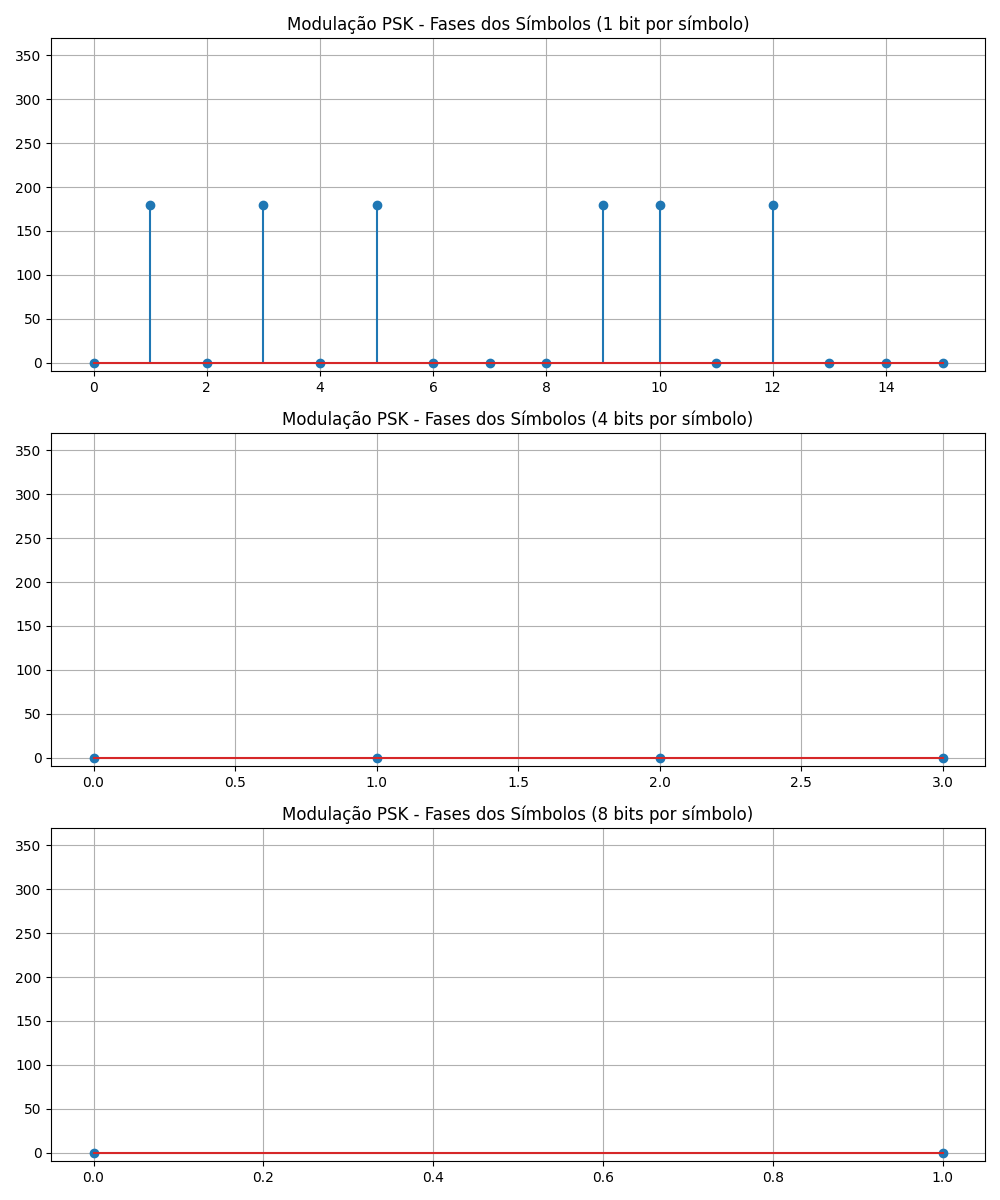
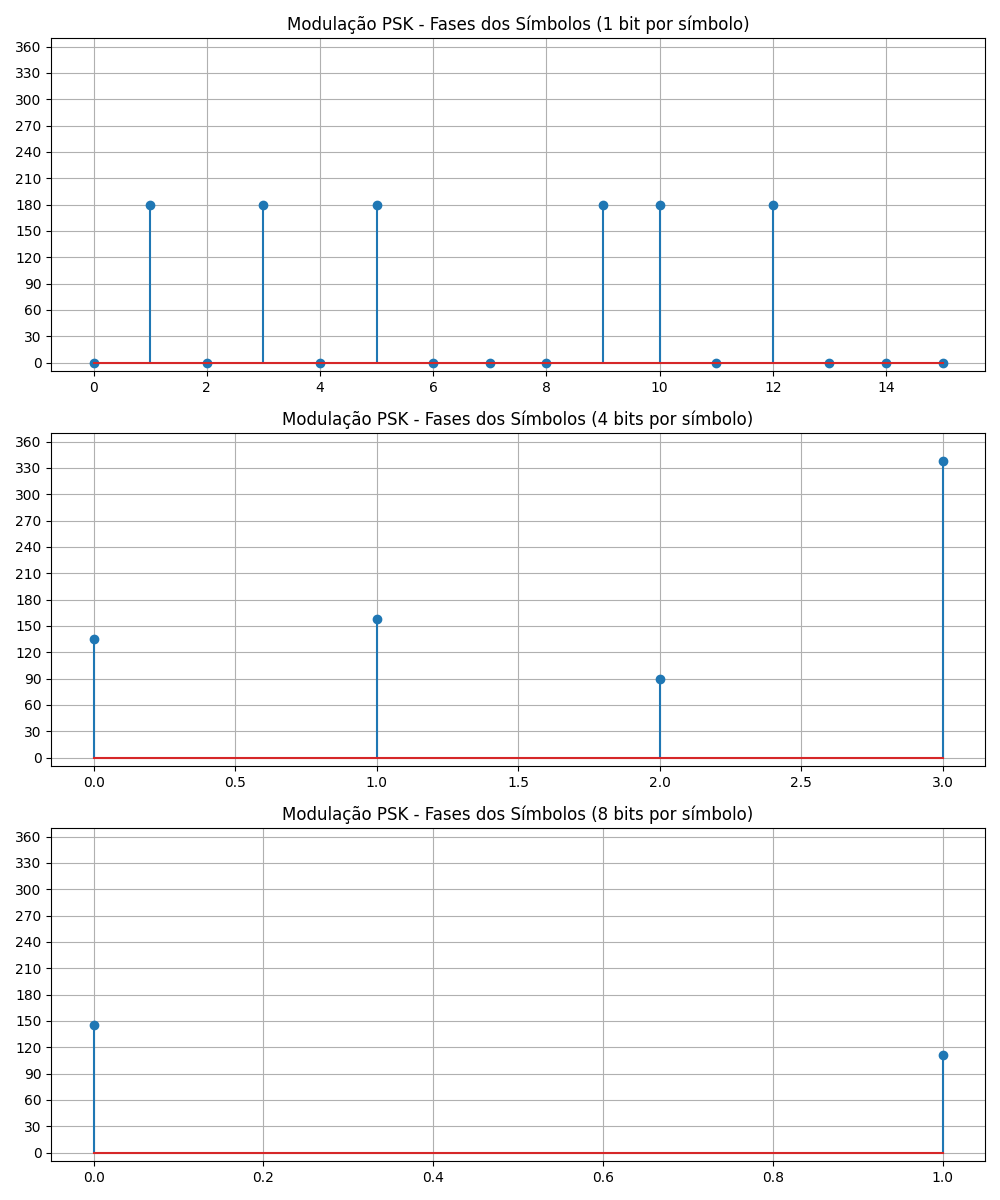
(camada física): 16 qam

diff --git a/camadas/tests/modulacoes_test.py b/camadas/tests/modulacoes_test.py
@@ -112,17 +112,16 @@ class TestModulacoes(unittest.TestCase):
 
     def test_psk_gerar_parametros(self):
         sinal = Sinal(bits_por_simbolo=1)
-        decimal_mensagem_1bit = sinal.binario_para_decimal(
-            np.array([0, 1, 0, 1, 0, 1, 0, 0, 0, 1, 1, 0, 1, 0, 0, 0])
-        )
+        mensagem_1bit = np.array([0, 1, 0, 1, 0, 1, 0, 0, 0, 1, 1, 0, 1, 0, 0, 0])
+        decimal_mensagem_1bit = sinal.binario_para_decimal(mensagem_1bit)
         sinal.bits_por_simbolo = 4
-        decimal_mensagem_4bits = sinal.binario_para_decimal(
-            np.array([[0, 1, 0, 1], [0, 1, 0, 0], [0, 1, 1, 0], [1, 0, 0, 0]])
+        mensagem_4bits = np.array(
+            [[0, 1, 0, 1], [0, 1, 0, 0], [0, 1, 1, 0], [1, 0, 0, 0]]
         )
+        decimal_mensagem_4bits = sinal.binario_para_decimal(mensagem_4bits)
         sinal.bits_por_simbolo = 8
-        decimal_mensagem_8bits = sinal.binario_para_decimal(
-            np.array([[0, 1, 0, 1, 0, 1, 0, 0], [0, 1, 1, 0, 1, 0, 0, 0]])
-        )
+        mensagem_8bits = np.array([[0, 1, 0, 1, 0, 1, 0, 0], [0, 1, 1, 0, 1, 0, 0, 0]])
+        decimal_mensagem_8bits = sinal.binario_para_decimal(mensagem_8bits)
 
         psk_1bit = modulacoes.PSK(bits_por_simbolo=1)
         psk_4bits = modulacoes.PSK(bits_por_simbolo=4)
@@ -132,43 +131,48 @@ class TestModulacoes(unittest.TestCase):
         fases_4bits = psk_4bits.gerar_parametros(decimal_mensagem_4bits)
         fases_8bits = psk_8bits.gerar_parametros(decimal_mensagem_8bits)
 
-        gray_4bits = Gray(bits_por_simbolo=4).tabela_gray
-        gray_8bits = Gray(bits_por_simbolo=8).tabela_gray
-
         npt.assert_array_almost_equal(
             fases_1bit,
             decimal_mensagem_1bit * 180,
         )
 
-        npt.assert_array_almost_equal(
-            fases_4bits,
-            np.array([gray_4bits[int(x)] for x in decimal_mensagem_4bits])
-            * (360 / (2**4)),
-        )
+        gray_4bits = Gray(bits_por_simbolo=4, normalizado=True)
+        tabela_gray_4bits = gray_4bits.tabela_gray
+        fases_esperadas_4bits = [
+            np.where(tabela_gray_4bits == simbolo)[0][0] * (360 / 16)
+            for simbolo in decimal_mensagem_4bits
+        ]
 
-        print(fases_4bits)
+        npt.assert_array_almost_equal(fases_4bits, np.array(fases_esperadas_4bits))
 
-        npt.assert_array_almost_equal(
-            fases_8bits,
-            np.array([gray_8bits[int(x)] for x in decimal_mensagem_8bits])
-            * (360 / (2**8)),
-        )
+        gray_8bits = Gray(bits_por_simbolo=8, normalizado=True)
+        tabela_gray_8bits = gray_8bits.tabela_gray
+        fases_esperadas_8bits = [
+            np.where(tabela_gray_8bits == simbolo)[0][0] * (360 / 256)
+            for simbolo in decimal_mensagem_8bits
+        ]
+
+        npt.assert_array_almost_equal(fases_8bits, np.array(fases_esperadas_8bits))
+        print(fases_8bits)
 
         plt.figure(figsize=(10, 12))
         plt.subplot(3, 1, 1)
         plt.title("Modulação PSK - Fases dos Símbolos (1 bit por símbolo)")
         plt.stem(fases_1bit)
         plt.ylim(-10, 370)
+        plt.yticks(np.arange(0, 361, 30))
         plt.grid()
         plt.subplot(3, 1, 2)
         plt.title("Modulação PSK - Fases dos Símbolos (4 bits por símbolo)")
         plt.stem(fases_4bits)
         plt.ylim(-10, 370)
+        plt.yticks(np.arange(0, 361, 30))
         plt.grid()
         plt.subplot(3, 1, 3)
         plt.title("Modulação PSK - Fases dos Símbolos (8 bits por símbolo)")
         plt.stem(fases_8bits)
         plt.ylim(-10, 370)
+        plt.yticks(np.arange(0, 361, 30))
         plt.grid()
         plt.tight_layout()
         plt.savefig("images/modulacao_psk.png")
@@ -220,37 +224,60 @@ class TestModulacoes(unittest.TestCase):
             )
         )
 
-        qam16 = modulacoes.QAM16(bits_por_simbolo=4)
+        qam16 = modulacoes.QAM16()
 
         amplitudes_4bits, fases_4bits = qam16.gerar_parametros(decimal_mensagem_4bits)
 
-        expected_amplitudes = np.array(
+        amplitude_I = np.array(
             [
-                0.3333,
-                0.3333,
-                0.3333,
-                0.3333,
-                0.6667,
-                0.6667,
-                0.6667,
-                0.6667,
-                1.0000,
-                1.0000,
-                1.0000,
-                1.0000,
-                1.3333,
-                1.3333,
-                1.3333,
-                1.3333,
+                -1 / (3 * np.sqrt(2)),
+                -1 / (3 * np.sqrt(2)),
+                -1 / (np.sqrt(2)),
+                -1 / (np.sqrt(2)),
+                -1 / (3 * np.sqrt(2)),
+                -1 / (3 * np.sqrt(2)),
+                -1 / (np.sqrt(2)),
+                -1 / (np.sqrt(2)),
+                1 / (3 * np.sqrt(2)),
+                1 / (3 * np.sqrt(2)),
+                1 / (np.sqrt(2)),
+                1 / (np.sqrt(2)),
+                1 / (3 * np.sqrt(2)),
+                1 / (3 * np.sqrt(2)),
+                1 / (np.sqrt(2)),
+                1 / (np.sqrt(2)),
             ]
         )
-        expected_fases = decimal_mensagem_4bits * (360 / (2**4))
 
-        npt.assert_array_almost_equal(amplitudes_4bits, expected_amplitudes, decimal=4)
+        amplitude_Q = np.array(
+            [
+                -1 / (3 * np.sqrt(2)),
+                -1 / (np.sqrt(2)),
+                -1 / (3 * np.sqrt(2)),
+                -1 / (np.sqrt(2)),
+                1 / (3 * np.sqrt(2)),
+                1 / (np.sqrt(2)),
+                1 / (3 * np.sqrt(2)),
+                1 / (np.sqrt(2)),
+                -1 / (3 * np.sqrt(2)),
+                -1 / (np.sqrt(2)),
+                -1 / (3 * np.sqrt(2)),
+                -1 / (np.sqrt(2)),
+                1 / (3 * np.sqrt(2)),
+                1 / (np.sqrt(2)),
+                1 / (3 * np.sqrt(2)),
+                1 / (np.sqrt(2)),
+            ]
+        )
+
+        amplitudes_esperadas = np.sqrt(amplitude_I**2 + amplitude_Q**2)
+        fases_esperadas = np.degrees(np.arctan2(amplitude_Q, amplitude_I)) % 360
+
+        npt.assert_array_almost_equal(amplitudes_4bits, amplitudes_esperadas)
 
         npt.assert_array_almost_equal(
             fases_4bits,
-            expected_fases,
+            fases_esperadas,
         )
 
         plt.figure(figsize=(10, 6))

diff --git a/camadas/fisica/transmissor/modulacoes/qam16.py b/camadas/fisica/transmissor/modulacoes/qam16.py
@@ -9,12 +9,12 @@ class QAM16(ModulacaoBase):
 
         self._gray_16qam_decimal = np.array(
             [
-                [7, 5, 13, 15],  # [[0, 1, 1, 1], [0, 1, 0, 1], [1,1,0,1], [1,1,1,1]],
-                [6, 4, 12, 14],  # [[0, 1, 1, 0], [0, 1, 0, 0], [1,1,0,0], [1,1,1,0]],
-                [2, 0, 8, 10],  # [[0, 0, 1, 0], [0, 0, 0, 0], [1,0,0,0], [1,0,1,0]],
-                [3, 1, 9, 11],  # [[0, 0, 1, 1], [0, 0, 0, 1], [1,0,0,1], [1,0,1,1]]
+                [7, 5, 13, 15],  # [0, 1, 1, 1], [0, 1, 0, 1], [1,1,0,1], [1,1,1,1]
+                [6, 4, 12, 14],  # [0, 1, 1, 0], [0, 1, 0, 0], [1,1,0,0], [1,1,1,0]
+                [2, 0, 8, 10],  # [0, 0, 1, 0], [0, 0, 0, 0], [1,0,0,0], [1,0,1,0]
+                [3, 1, 9, 11],  # [0, 0, 1, 1], [0, 0, 0, 1], [1,0,0,1], [1,0,1,1]
             ]
-        )
+        ) / (2**4 - 1)  # Normalizado entre 0 e 1
 
     def gerar_parametros(self, simbolos_decimais: np.ndarray) -> np.ndarray:
         """Modulação 16QAM (Quadrature Amplitude Modulation).
@@ -25,41 +25,39 @@ class QAM16(ModulacaoBase):
         amplitudes = np.zeros_like(simbolos_decimais, dtype=float)
         fases = np.zeros_like(simbolos_decimais, dtype=float)
 
-        if np.any(simbolos_decimais < 0) or np.any(simbolos_decimais > 15):
-            raise ValueError("Símbolos decimais devem estar entre 0 e 15 para 16-QAM.")
-
         # Q > 0 === X1XX
         # Q < 0 === X0XX
         # I > 0 === 1XXX
         # I < 0 === 0XXX
-        # I = 1/3sqrt(2) === XX0X
+        # I = 1/(3*sqrt(2)) === XX0X
         # I = 1/sqrt(2) === XX1X
-        # Q = 1/3sqrt(2) === XXX0
+        # Q = 1/(3*sqrt(2)) === XXX0
         # Q = 1/sqrt(2) === XXX1
         # 45deg === XX00 e XX11
         # 75deg === XX01
         # 15deg === XX10
         for i, simbolo in enumerate(simbolos_decimais):
-            indices = np.argwhere(self._gray_16qam_decimal == simbolo)
-
-            linha, coluna = indices[0]
+            linha, coluna = np.where(self._gray_16qam_decimal == simbolo)
+            linha = linha[0]
+            coluna = coluna[0]
 
             # Determina componente I
-            if coluna in [0, 1]:  # I < 0
-                componente_i = -1 / 3 * np.sqrt(2)
+            if coluna in [0, 1]:  # I < 0 (Quadrantes 2 e 3)
+                componente_i = -1 / (3 * np.sqrt(2))
             else:  # I > 0
-                componente_i = 1 / 3 * np.sqrt(2)
-            if coluna % 2 == 0:  # I = 1/3sqrt(2)
+                componente_i = 1 / (3 * np.sqrt(2))
+
+            if coluna in [1, 2]:  # I = 1/3sqrt(2)
                 componente_i *= 1
             else:  # I = 1/sqrt(2)
                 componente_i *= 3
 
             # Determina componente Q
-            if linha in [0, 1]:  # Q > 0
-                componente_q = 1 / 3 * np.sqrt(2)
+            if linha in [0, 1]:  # Q > 0 (Quadrantes 1 e 2)
+                componente_q = 1 / (3 * np.sqrt(2))
             else:  # Q < 0
-                componente_q = -1 / 3 * np.sqrt(2)
-            if linha % 2 == 0:  # Q = 1/3sqrt(2)
+                componente_q = -1 / (3 * np.sqrt(2))
+            if linha in [1, 2]:  # Q = 1/3sqrt(2)
                 componente_q *= 1
             else:  # Q = 1/sqrt(2)
                 componente_q *= 3

diff --git a/camadas/fisica/transmissor/modulacoes/psk.py b/camadas/fisica/transmissor/modulacoes/psk.py
@@ -16,20 +16,17 @@ class PSK(ModulacaoBase):
         em intervalos atrelados ao número de bits por símbolo.
         Retorna um array com as fases (em graus) correspondentes a cada símbolo.
         """
-        gray = Gray(bits_por_simbolo=self.bits_por_simbolo)
+        gray = Gray(
+            bits_por_simbolo=self.bits_por_simbolo, normalizado=True
+        )  # Codigo Gray com valores de 0 a 1
         tabela_gray = gray.tabela_gray
         parametros = []
         num_fases = 2**self.bits_por_simbolo
 
         # Nota: simbolos_decimais já apresenta valores de 0 a 1
         for simbolo in simbolos_decimais:
-            # Encontra o índice do símbolo na tabela Gray
-            if self.bits_por_simbolo > 1:
-                indice = tabela_gray.tolist().index(int(simbolo))
-            else:
-                indice = int(simbolo)
-
-            fase = (360 / num_fases) * indice
+            indice = np.where(tabela_gray == simbolo)[0][0]
+            fase = indice * (360 / num_fases)
             parametros.append(fase)
 
         return np.array(parametros)

diff --git a/util/gray.py b/util/gray.py
@@ -1,8 +1,15 @@
 import numpy as np
 
+
 class Gray:
-    def __init__(self, bits_por_simbolo: int, flag_binario: bool = False):
+    def __init__(
+        self,
+        bits_por_simbolo: int,
+        normalizado: bool = False,
+        flag_binario: bool = False,
+    ):
         self.bits_por_simbolo = bits_por_simbolo
+        self.normalizado = normalizado
         self.flag_binario = flag_binario
         self._tabela_gray = self._gerar_tabela_gray()
 
@@ -21,8 +28,13 @@ class Gray:
         for i in range(num_simbolos):
             gray_code = i ^ (i >> 1)
             if self.flag_binario:
-                binario = format(gray_code, f'0{self.bits_por_simbolo}b')
+                binario = format(gray_code, f"0{self.bits_por_simbolo}b")
                 gray_code = [int(bit) for bit in binario]
             tabela.append(gray_code)
 
-        return np.array(tabela)
+        tabela = np.array(tabela)
+
+        if self.normalizado:
+            tabela = tabela / (num_simbolos - 1)
+
+        return tabela
